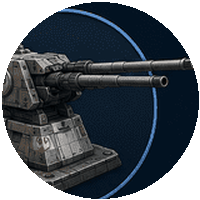
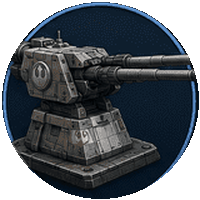
Re-crop RoE unit tokens from hand-marked coordinates
Replace the auto-estimated crop centers with the positions marked in the
"tokens (RoE)" dev tab — the miniatures are now properly centered in
their circular tokens. Updates the extract-rote-unit-tokens.py coords,
the dev-tab defaults, and the 8 regenerated token PNGs.

diff --git a/src/devtabs/TokensTab.tsx b/src/devtabs/TokensTab.tsx
@@ -61,14 +61,15 @@ export const BASE_TOKENS_CONFIG: TokensTabConfig = {
 // Rise of the Empire sheet — 8 tokens, 4 per faction row. Starting positions
 // are the auto-estimated crops; refine them here and re-export.
 const ROTE_DEFAULTS: Token[] = [
-  { typeId: 'tie-striker',       label: 'TIE Striker',       cx: 150, cy: 150, r: 80 },
-  { typeId: 'assault-tank',      label: 'Assault Tank',      cx: 350, cy: 150, r: 80 },
-  { typeId: 'shield-bunker',     label: 'Shield Bunker',     cx: 553, cy: 150, r: 80 },
-  { typeId: 'interdictor',       label: 'Interdictor',       cx: 762, cy: 150, r: 80 },
-  { typeId: 'u-wing',            label: 'U-Wing',            cx: 140, cy: 440, r: 80 },
-  { typeId: 'nebulon-b-frigate', label: 'Nebulon-B Frigate', cx: 350, cy: 440, r: 80 },
-  { typeId: 'rebel-vanguard',    label: 'Rebel Vanguard',    cx: 560, cy: 440, r: 80 },
-  { typeId: 'golan-arms-turret', label: 'Golan Arms Turret', cx: 785, cy: 440, r: 80 },
+  // Hand-marked via this tab and exported 2026-06-09.
+  { typeId: 'tie-striker',       label: 'TIE Striker',       cx: 138, cy: 163, r: 80 },
+  { typeId: 'assault-tank',      label: 'Assault Tank',      cx: 334, cy: 164, r: 80 },
+  { typeId: 'shield-bunker',     label: 'Shield Bunker',     cx: 531, cy: 163, r: 80 },
+  { typeId: 'interdictor',       label: 'Interdictor',       cx: 737, cy: 163, r: 80 },
+  { typeId: 'u-wing',            label: 'U-Wing',            cx: 128, cy: 449, r: 80 },
+  { typeId: 'nebulon-b-frigate', label: 'Nebulon-B Frigate', cx: 331, cy: 449, r: 80 },
+  { typeId: 'rebel-vanguard',    label: 'Rebel Vanguard',    cx: 541, cy: 449, r: 80 },
+  { typeId: 'golan-arms-turret', label: 'Golan Arms Turret', cx: 754, cy: 445, r: 80 },
 ];
 
 export const ROTE_TOKENS_CONFIG: TokensTabConfig = {

diff --git a/scripts/extract-rote-unit-tokens.py b/scripts/extract-rote-unit-tokens.py
@@ -20,14 +20,15 @@ SIL_DIR.mkdir(parents=True, exist_ok=True)
 OUT = 200
 # (cx, cy, r) in the 900x600 sheet. Empire row then Rebel row.
 TOKENS = {
-    'tie-striker':       (150, 150, 80),
-    'assault-tank':      (350, 150, 80),
-    'shield-bunker':     (553, 150, 80),
-    'interdictor':       (762, 150, 80),
-    'u-wing':            (140, 440, 80),
-    'nebulon-b-frigate': (350, 440, 80),
-    'rebel-vanguard':    (560, 440, 80),
-    'golan-arms-turret': (785, 440, 80),
+    # Hand-marked via the "tokens (RoE)" dev tab and exported 2026-06-09.
+    'tie-striker':       (138, 163, 80),
+    'assault-tank':      (334, 164, 80),
+    'shield-bunker':     (531, 163, 80),
+    'interdictor':       (737, 163, 80),
+    'u-wing':            (128, 449, 80),
+    'nebulon-b-frigate': (331, 449, 80),
+    'rebel-vanguard':    (541, 449, 80),
+    'golan-arms-turret': (754, 445, 80),
 }
 
 src = Image.open(SRC).convert('RGBA')
